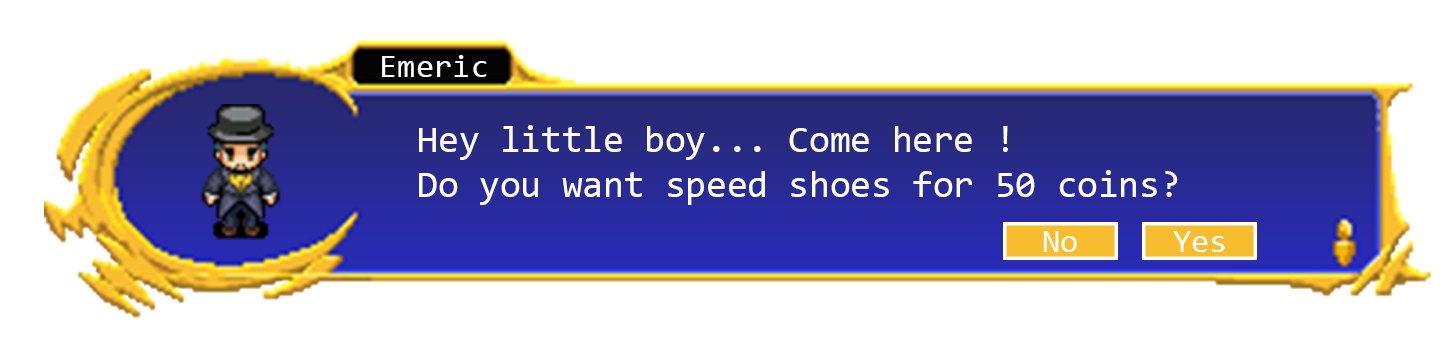
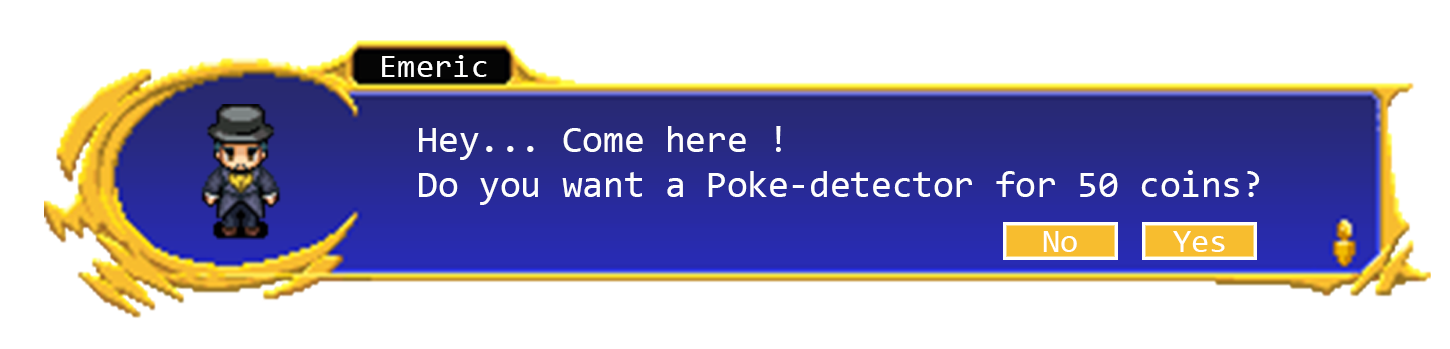
[ADD] speech and quest

Changed region(s): [[0.3414, 0.3438, 0.7138, 0.4585], [0.6828, 0.4871, 0.869, 0.5731], [0.4655, 0.4871, 0.6517, 0.5731]]

diff --git a/src/pnj/speech_pnj.c b/src/pnj/speech_pnj.c
@@ -10,7 +10,8 @@
 
 int condition_display_speech_two(game_t *game)
 {
-    if (game->map->x_player == 30 && game->map->y_player == 30)
+    if ((game->map->x_player == 30 && game->map->y_player == 30) &&
+    game->story_steps < 5)
         sfRenderWindow_drawSprite
         (game->window.window, game->speech[1].sprite, NULL);
     if (game->map->x_player == 54 && game->map->y_player == 45)
@@ -20,6 +21,40 @@ int condition_display_speech_two(game_t *game)
     (game->map->x_player == 30 && game->map->y_player == 31) ||
     (game->map->x_player == 54 && game->map->y_player == 46))
         sfMusic_play(game->sound.dialogue);
+    return (0);
+}
+
+int condition_display_speech_three(game_t *game)
+{
+    if ((game->map->x_player == 30 && game->map->y_player == 30) &&
+    (game->story_steps == 4 || game->story_steps == 5)) {
+        sfRenderWindow_drawSprite
+        (game->window.window, game->speech[4].sprite, NULL);
+        game->story_steps = 5;
+        game->coins.count = 0;
+        sfText_setString(game->coins.text, int_to_char(game->coins.count));
+    }
+    if ((game->map->x_player == 11 && game->map->y_player == 49) &&
+    (game->story_steps == 5 || game->story_steps == 6)) {
+        sfRenderWindow_drawSprite
+        (game->window.window, game->speech[6].sprite, NULL);
+        game->story_steps = 6;
+        game->coins.count = 0;
+        sfText_setString(game->coins.text, int_to_char(game->coins.count));
+    }
+    return (0);
+}
+
+int condition_display_speech_four(game_t *game)
+{
+    if ((game->map->x_player == 11 && game->map->y_player == 49) &&
+    (game->story_steps == 7 || game->story_steps == 8)) {
+        sfRenderWindow_drawSprite
+        (game->window.window, game->speech[6].sprite, NULL);
+        game->story_steps = 8;
+        game->coins.count = 0;
+        sfText_setString(game->coins.text, int_to_char(game->coins.count));
+    }
     return (0);
 }
 
@@ -39,6 +74,8 @@ int condition_display_speech(game_t *game)
         game->coins.count = 50;
         sfText_setString(game->coins.text, int_to_char(game->coins.count));
     }
+    condition_display_speech_three(game);
+    condition_display_speech_four(game);
     condition_display_speech_two(game);
     return (0);
 }

diff --git a/src/pnj/initialize_pnj.c b/src/pnj/initialize_pnj.c
@@ -68,5 +68,14 @@ int speech_create(game_t *game)
     ("ressources/speech/emeric_speech.png", game->speech[2].texture, 1, 1);
     game->speech[3].sprite = init_sprite
     ("ressources/speech/Flora_speech_two.png", game->speech[3].texture, 1, 1);
+    game->speech[4].sprite = init_sprite
+    ("ressources/speech/bilal_speech_two.png", game->speech[4].texture, 1, 1);
+    game->speech[5].sprite = init_sprite
+    ("ressources/speech/bilal_speech_three.png",
+    game->speech[5].texture, 1, 1);
+    game->speech[6].sprite = init_sprite
+    ("ressources/speech/nelly_speech_one.png", game->speech[6].texture, 1, 1);
+    game->speech[7].sprite = init_sprite
+    ("ressources/speech/nelly_speech_two.png", game->speech[7].texture, 1, 1);
     return (0);
 }

diff --git a/src/inventory/initialize_inv.c b/src/inventory/initialize_inv.c
@@ -14,6 +14,12 @@ int initialize_story_object(game_t *game)
     ("ressources/inventory/ring.png", game->inventory[0].texture, 1, 1);
     game->inventory[1].sprite = init_sprite
     ("ressources/inventory/inventory.png", game->inventory[1].texture, 1, 1);
+    game->inventory[2].sprite = init_sprite
+    ("ressources/inventory/charmander_inv.png",
+    game->inventory[2].texture, 1, 1);
+    game->inventory[3].sprite = init_sprite
+    ("ressources/inventory/charizard_inv.png",
+    game->inventory[3].texture, 1, 1);
     set_position_object(game);
     set_rect_inv(game);
     game->coins.text = make_test("ressources/menu/font.ttf", 400, 150, 30);

diff --git a/src/inventory/display_inv.c b/src/inventory/display_inv.c
@@ -24,6 +24,12 @@ int display_inventory(game_t *game)
     sfRenderWindow_drawSprite
     (game->window.window, game->inventory[1].sprite, NULL);
     sfRenderWindow_drawText(game->window.window, game->coins.text, NULL);
+    if (game->level_player == 0)
+        sfRenderWindow_drawSprite
+        (game->window.window, game->inventory[2].sprite, NULL);
+    if (game->level_player == 1)
+        sfRenderWindow_drawSprite
+        (game->window.window, game->inventory[3].sprite, NULL);
     if (game->story_steps == 3) {
         game->inventory[0].scale = (sfVector2f){0.15, 0.15};
         game->inventory[0].pos = (sfVector2f){135, 200};

diff --git a/src/pnj/position_pnj.c b/src/pnj/position_pnj.c
@@ -14,9 +14,12 @@ int set_position_speech(game_t *game)
     game->speech[1].pos = (sfVector2f){250, 700};
     game->speech[2].pos = (sfVector2f){1600, 1550};
     game->speech[3].pos = (sfVector2f){-200, 100};
-    for (int i = 0; i != 4; i++) {
+    game->speech[4].pos = (sfVector2f){250, 700};
+    game->speech[5].pos = (sfVector2f){250, 700};
+    game->speech[6].pos = (sfVector2f){-820, 1750};
+    game->speech[7].pos = (sfVector2f){-820, 1750};
+    for (int i = 0; i != 8; i++)
         sfSprite_setPosition(game->speech[i].sprite, game->speech[i].pos);
-    }
     return (0);
 }
 

diff --git a/includes/game.h b/includes/game.h
@@ -118,12 +118,12 @@ typedef struct game_s {
     window_t window;
     event_t event;
     map_t map[4];
-    inventory_t inventory[3];
+    inventory_t inventory[4];
     sfClock *clock;
     move_t key;
     music_t sound;
     pnj_t pnj[11];
-    speech_t speech[4];
+    speech_t speech[8];
     text_t coins;
     fight_t player_fight;
     fight_t monster_fight;
@@ -131,6 +131,7 @@ typedef struct game_s {
     fight_t life[3];
     int status;
     int story_steps;
+    int level_player;
 } game_t;
 
 #endif/* !GAME_H_ */

diff --git a/src/inventory/position_inv.c b/src/inventory/position_inv.c
@@ -12,7 +12,9 @@ int set_position_object(game_t *game)
 {
     game->inventory[0].pos = (sfVector2f){700, 900};
     game->inventory[1].pos = (sfVector2f){100, 100};
-    for (int i = 0; i != 2; i++)
+    game->inventory[2].pos = (sfVector2f){140, 120};
+    game->inventory[3].pos = (sfVector2f){140, 120};
+    for (int i = 0; i != 4; i++)
         sfSprite_setPosition
         (game->inventory[i].sprite, game->inventory[i].pos);
     return (0);

diff --git a/src/inventory/rect_inv.c b/src/inventory/rect_inv.c
@@ -12,7 +12,9 @@ int set_scale_inv(game_t *game)
 {
     game->inventory[0].scale = (sfVector2f){0.1, 0.1};
     game->inventory[1].scale = (sfVector2f){1, 1};
-    for (int i = 0; i != 2; i++) {
+    game->inventory[2].scale = (sfVector2f){0.08, 0.08};
+    game->inventory[3].scale = (sfVector2f){0.08, 0.08};
+    for (int i = 0; i != 4; i++) {
         sfSprite_setScale
         (game->inventory[i].sprite, game->inventory[i].scale);
     }

diff --git a/src/my_rpg.c b/src/my_rpg.c
@@ -60,6 +60,7 @@ int initialize_story_value(game_t *game)
 {
     game->story_steps = 0;
     game->coins.count = 0;
+    game->level_player = 0;
     return (0);
 }
 
